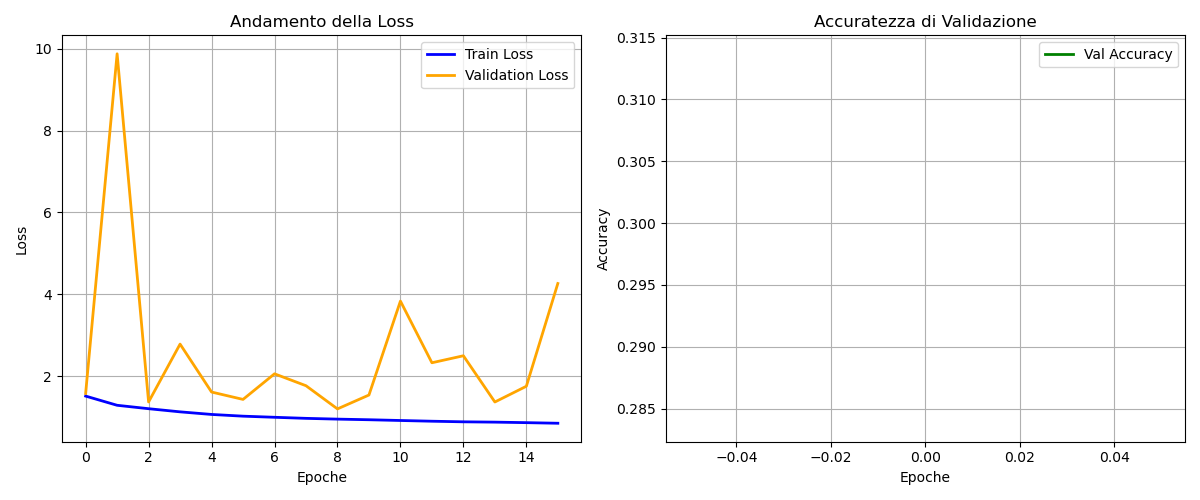
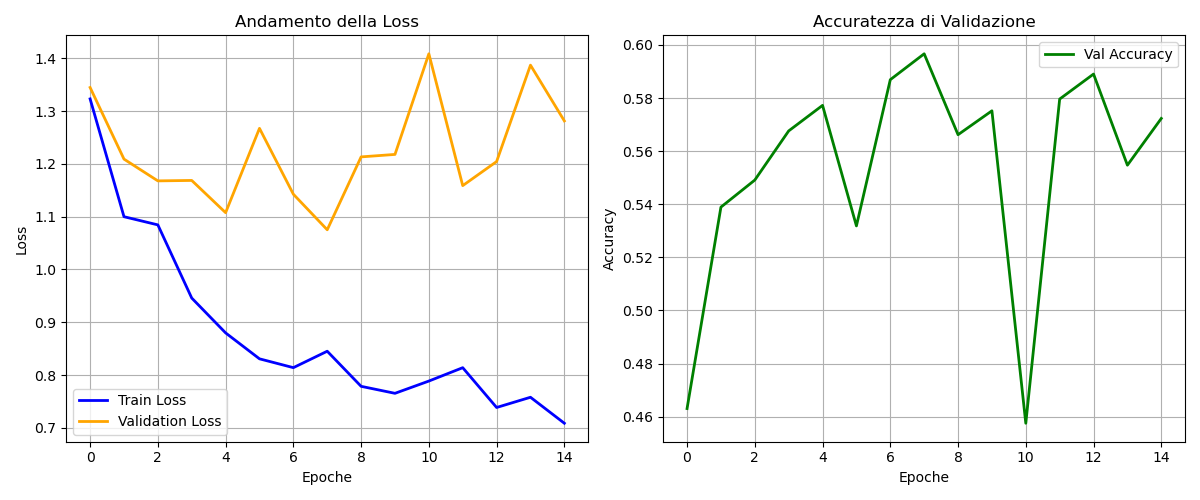
windows are taken more frequently, fixed bug for memory usage

diff --git a/src/baseline.py b/src/baseline.py
@@ -16,12 +16,12 @@ class BaselineNet(torch.nn.Module):
             InceptionModule(),
             Conv2d(kernel_size=1,stride=1,padding=0,out_channels=3,in_channels=15),
             ReLU(),
-            MaxPool2d(kernel_size=2, stride=2),
+            #MaxPool2d(kernel_size=2, stride=2),
             Flatten(),
             Dropout(0.2),
-            Linear(in_features=6375, out_features=128),
+            Linear(in_features=25500, out_features=128),
             ReLU(),
-            Dropout(0.2),
+            #Dropout(0.2),
             Linear(in_features=128,out_features=8),
         )
         self.apply(self._init_weights)
@@ -46,7 +46,7 @@ class InceptionModule(torch.nn.Module):
         
         # Conv @5 (2x2) stride 2
         self.convBlock1 = Conv2d(kernel_size=2, stride=2, out_channels=5, in_channels=1)
-        self.bn1 = BatchNorm2d(num_features=5)
+        #self.bn1 = BatchNorm2d(num_features=5)
 
         # Conv 3@ (1x1) stride 1 -> 6@ (2x2) stride 1 -> 9@ (4x4) stride 2
         self.convBlock2 = Sequential(                   
@@ -56,7 +56,7 @@ class InceptionModule(torch.nn.Module):
             ReLU(),
             Conv2d(kernel_size=4, stride=2, in_channels=6, out_channels=9, padding=1),
             ReLU(),
-            Dropout2d(0.1)
+            #Dropout2d(0.1)
         )
 
         self.relu = ReLU()
@@ -72,7 +72,7 @@ class InceptionModule(torch.nn.Module):
         
     def forward(self, x) -> torch.Tensor:
         x1 = self.block1(x)
-        x2 = self.relu(self.bn1(self.convBlock1(x)))
+        x2 = self.relu(self.convBlock1(x))
         x3 = self.convBlock2(x)
         print(x1.shape, x2.shape, x3.shape)
         y = torch.cat((x1, x2, x3), dim=1)
@@ -189,8 +189,8 @@ plt.figure(figsize=(12, 5))
 plt.subplot(1, 2, 1)
 plt.plot(history["train"], label="Train Loss", color="blue", lw=2)
 plt.plot(history["val"], label="Validation Loss", color="orange", lw=2)
-plt.title("Andamento della Loss")
-plt.xlabel("Epoche")
+plt.title("Loss Evolution")
+plt.xlabel("Epochs")
 plt.ylabel("Loss")
 plt.legend()
 plt.grid(True)
@@ -198,8 +198,8 @@ plt.grid(True)
 # Grafico dell'Accuratezza di Validation
 plt.subplot(1, 2, 2)
 plt.plot(history["acc"], label="Val Accuracy", color="green", lw=2)
-plt.title("Accuratezza di Validazione")
-plt.xlabel("Epoche")
+plt.title("Validation Accuracy Evolution")
+plt.xlabel("Epochs")
 plt.ylabel("Accuracy")
 plt.legend()
 plt.grid(True)
@@ -238,6 +238,6 @@ test_acc = ntest_correct / ntest
 print(f"loss: {test_loss}, accuracy: {test_acc}")
 
 
-# By using as training set the first two days on the first monitor position and the third as training set we obtain:
-# Test loss: 1.2525141948078449, accuracy: 0.5575328265376641
+#By using as training set the first two days on the first monitor position and the third as training set we obtain:
+#Test loss: 1.2525141948078449, accuracy: 0.5575328265376641
 

diff --git a/src/dataset.py b/src/dataset.py
@@ -35,12 +35,13 @@ class CFR(Dataset):
         for index in range(0, total_frames - window_size + 1, stride):
             window = matrix[index:index + window_size, :]
             windows.append(window)
+            #print(window.shape[0], window.shape[1])
         return torch.stack(windows)
 
-    def __init__(self, folder, campaigns, split_mode="train", stride=50, transform=None, max_samples=None):
+    def __init__(self, folder, campaigns, split_mode="train", stride=5, transform=None, max_samples=None):
 
-        x_list = []
-        y_list = []
+        self.matrices = []
+        self.window_info = []
 
         for campaign in campaigns:
             if not os.path.exists(f"./{folder}{campaign}"):
@@ -61,28 +62,26 @@ class CFR(Dataset):
                         continue  # Skip files that are too short
 
                     label_id = torch.tensor(self.LABEL_MAP[file.split("_")[1]]).long()
-                    windows = self.sliding_window(matrix, SAMPLE_SIZE_ROWS, stride)
-                    x_list.append(windows)
-                    labels = torch.full((windows.shape[0],), label_id, dtype=torch.long)
-                    y_list.append(labels)
+                    mat_idx = len(self.matrices)
+                    self.matrices.append(matrix)
 
-                    
-                #print(f"Loaded {file} -> extracted {windows.shape[0]} windows with label {label_id}")
-        
-        self.x = torch.cat(x_list, dim=0)
-        self.y = torch.cat(y_list, dim=0)
+                    total_frames = matrix.shape[0]
+                    for index in range(0, total_frames - SAMPLE_SIZE_ROWS + 1, stride):
+                        self.window_info.append((mat_idx, index, label_id))
 
         self.transform = transform
         self.max_samples = max_samples
 
     def __len__(self):
         if self.max_samples is None:
-            return len(self.x)
-        return min(self.max_samples, len(self.x))
+            return len(self.window_info)
+        return min(self.max_samples, len(self.window_info))
 
     def __getitem__(self, idx):
-        x = self.x[idx]
-        y = self.y[idx]
+        mat_idx, index, label_id = self.window_info[idx]
+        matrix = self.matrices[mat_idx]
+        x = matrix[index:index + SAMPLE_SIZE_ROWS, :]
+        y = label_id
         x = x.unsqueeze(0)  # Add channel dimension
         if self.transform:
             x = self.transform(x)

diff --git a/Report.md b/Report.md
@@ -1,0 +1,26 @@
+# Report of the Project
+
+In this file we will describe all the steps we have followed to obtain the solution starting from the baseline.
+
+### Dataset
+
+Starting from the baseline architecture, we opted to train and validate the model using the data from just the S1 folder, which contains the data obtained from the movements of person 1 always in the same room divided in 3 days, we used the first 2 to train and the last one to validate / test.
+
+- in this way we just train using always the same room / person so the generalization to other rooms / person can be done by exploiting other of them as the test set
+
+The data for a given folder are divided other than for the day (which is represented by the letter a, b or c) also by:
+
+- The type of movement registered, which can be either jump, walk, stay still, sit, run, ...
+- the channel that has been used for that track, indeed we have 4 channels for each registration, in this way we are less dependent by the position of the router in the room
+
+The data registered for each folder, day, movement and channel are composed by a couple of minutes of registration of the same activity and what we are interested in are windows of a couple of seconds, indeed in input we want matrices of 340 x 100. \
+So what we did was take each matrix composed by a couple of minutes of data and split them into smaller matrices of 340x100 so by dividing on the first dimension we obtained the required format
+But just by partition each file we would have got only a few dozens of data.\
+A better idea consists in using sliding windows that every 5 columns take another screenshot of the matrix, in this way we obtain a lot of data that are correlated with each other but have the important information in different position, making the data less prone to overfit since it has to detect the element indendently from where it is in the matrix and at the same time give us more data to train and validate the algorithm.
+
+### Baseline Model
+
+after implementing the baseline model, we have obtained the following results:
+![alt text](image.png)
+We now want to make the architecture more robust by adding some batch normalization between the layers (regularazing and reducing covariate shift maybe)
+Using some type of pooling before the flattening of the maps, the idea is to change the cor after the concatenation such that it has more filters
